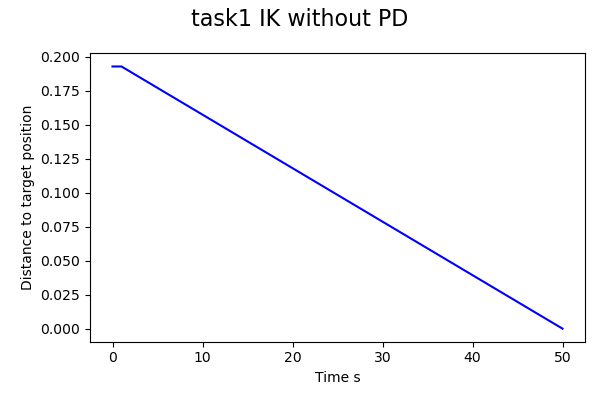
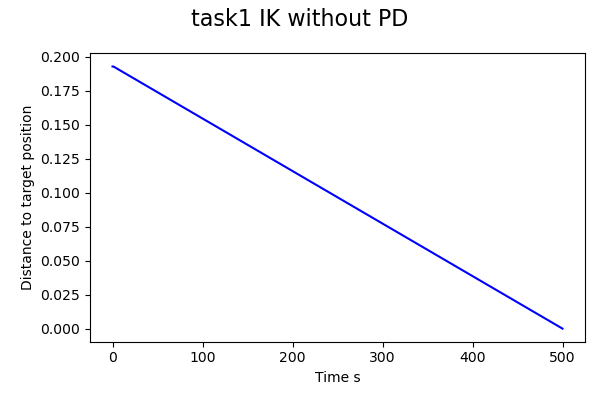
Fixed small bug in appending traj in IK & Included orientation implementation which works for task1 but fails for task2

diff --git a/core/Pybullet_Simulation.py b/core/Pybullet_Simulation.py
@@ -315,7 +315,9 @@ class Simulation(Simulation_base):
             jacobian_position = np.cross(a_i, p_eff - p_i)
             jacobian_vector= np.cross(a_i, a_eff) 
 
-            jacobian.append(jacobian_position)
+            curr_jacobian= np.hstack((jacobian_position, jacobian_vector))
+            # jacobian.append(jacobian_position)
+            jacobian.append(curr_jacobian)
 
         return np.array(jacobian).T
     
@@ -347,8 +349,10 @@ class Simulation(Simulation_base):
         # TODO add your code here
         # Hint: return a numpy array which includes the reference angular
         # positions for all joints after performing inverse kinematics.
-        
-        
+        if orientation==None:
+            orientation = [0,0,0]
+            # orientation = self.getJointOrientation(endEffector) 
+            print(self.refVector)
         #TODO: Work with orientation as well
         
         # set the initial robot configuration
@@ -361,8 +365,10 @@ class Simulation(Simulation_base):
         #print(jointNames)
         #print(len(fkMatrices))
         #print(len(jointNames))
-        efPosition, efAngle = self.extractPositionAndAngle(fkMatrices[-1])
+        efPosition, efRotationMatrix = self.extractPositionAndAngle(fkMatrices[-1])
         
+        efOrientation = self.getJointOrientation(endEffector) 
+        print(efOrientation)
         #Joint angles
         q = np.array([ jointAngles[val] for val in jointNames] ) 
  
@@ -382,23 +388,27 @@ class Simulation(Simulation_base):
         p.createMultiBody(baseMass=0,baseInertialFramePosition=inertiaShift, baseVisualShapeIndex = visualShapeId, basePosition = [0,0,0.85], useMaximalCoordinates=False)
         # Compute the tiny changes in positions for the end effector to go towards the target
         stepPositions = np.linspace(efPosition,targetPosition,num=interpolationSteps)
-        # stepOrientations = np.linspace(efAngle,orientation,num=interpolationSteps)
+        #TODO: Check whether we are meant to retrieve step orientations with linspace. Sti
+        stepOrientations = np.linspace(efOrientation,orientation,num=interpolationSteps)
         for i in range(len(stepPositions)):
             currGoal = stepPositions[i]
-            # currGoalTheta = stepOrientations[i]
-            
+            currGoalOrientation = stepOrientations[i]
             for iter in range(maxIterPerStep):
                 dy = currGoal - efPosition
-                # dtheta = currGoalTheta - efAngle
-                # dyAndTheta = np.hstack((dy,dtheta))
+                # dtheta = currGoalOrientation - efOrientation
+                dtheta = [0,0,0]
+                #TODO: Fix orientation method. Still need to adjust for when refVector is [1,0,0] as it doesnt work well in this orientation
+                if orientation!=[0,0,0] and orientation!=None:
+                    dtheta = currGoalOrientation - efOrientation
+                print(dtheta)
+                dyAndTheta = np.hstack((dy,dtheta))
                 jacobian = self.jacobianMatrix(endEffector, fkMatrices, jointNames=jointNames)
 
-                dq = np.linalg.pinv(jacobian)@dy
+                dq = np.linalg.pinv(jacobian)@dyAndTheta
 
                 q += dq
                 #print(dq)
                 
-                traj.append(q)
                 
                 for i in range(len(dq)):
                     jointAngles[jointNames[i]] = q[i]
@@ -412,12 +422,16 @@ class Simulation(Simulation_base):
                 assert(jointNames== jointNames_2)
                 #Calculate the new end effector position
                 efPosition, efAngle = self.extractPositionAndAngle(fkMatrices[-1])
+                # efOrientation = self.getJointOrientation(endEffector)
+                efOrientation = np.array(efAngle @ self.refVector).squeeze()
+                
                 # EFLocations.append(efPosition)
                 
                     
                
                 
-                #TODO: calculate the new end effector 
+                #TODO: calculate the new end effector. 
+                
                 #Missing the FK calculate and updating end effector 
                 if np.linalg.norm(efPosition - currGoal) < threshold:
                     break
@@ -433,10 +447,11 @@ class Simulation(Simulation_base):
 
             EFDif.append(np.linalg.norm(efPosition - targetPosition))
             
-        
+            traj.append(q)
+
         #TODO: You should directly (re)set the joint positions to be the desired values using a method such as Simulation.p.resetJointState() or else
         
-        
+        print(efOrientation)
         return np.array(traj), jointNames, EFDif, EFLocations
 
     def move_without_PD(self, endEffector, targetPosition, speed=0.01, orientation=None,
@@ -451,7 +466,7 @@ class Simulation(Simulation_base):
         # iterate through joints and update joint states based on IK solver
         trajs, names, EFPositions, _ = self.inverseKinematics(endEffector=endEffector, targetPosition=targetPosition, 
                                orientation=orientation,
-                               interpolationSteps=50, #TODO: whats the  interpolation step here?
+                               interpolationSteps=500, #TODO: whats the  interpolation step here?
                                maxIterPerStep=maxIter,
                                threshold=threshold,
                                startJoint=startJoint

diff --git a/task1/task1.py b/task1/task1.py
@@ -64,9 +64,10 @@ sim = Simulation(pybulletConfigs, robotConfigs, refVect=ref)
 # the base_to_waist translation.
 endEffector = "LARM_JOINT5"
 targetPosition = np.array([0.37, 0.23, 1.06385]) - np.array([0, 0, 0.85])  # x,y,z coordinates in world frame
+targetOrientation = [0,0,1]
 # Example code. Feel free to modify
 
-pltTime, pltEFPosition = sim.move_without_PD(endEffector, targetPosition, speed=0.01, orientation=None, threshold=1e-3, maxIter=3000, debug=True, verbose=False, startJoint = "base_to_dummy")
+pltTime, pltEFPosition = sim.move_without_PD(endEffector, targetPosition, speed=0.01, orientation=targetOrientation, threshold=1e-3, maxIter=3000, debug=True, verbose=False, startJoint = "base_to_dummy")
 
 # jointAngles = sim.measureJointAngles()
 

diff --git a/task2/task2.py b/task2/task2.py
@@ -49,7 +49,7 @@ sim = Simulation(pybulletConfigs, robotConfigs)
 # This is an example target (angular) position for the joint LARM_JOINT2
 task2_jointName = "LARM_JOINT5"
 #task2_targetPosition = np.array([1, 1, 1])#)  # joint (angular) position in radians
-task2_targetPosition = np.array([0.37, 0.23, 1.06385])  - np.array([-0.2, -0.2, 0.20]) #np.array([0.37, 0.23, 1.06385]) + np.array([0, 0, 0.85]) 
+task2_targetPosition = np.array([0.37, 0.23, 1.06385])  - np.array([0.0, 0.0, 0.85]) #np.array([0.37, 0.23, 1.06385]) + np.array([0, 0, 0.85]) 
 
 task2_targetVelocity = 0.0  # joint (angular) velocity in radians per second
 verbose = False
